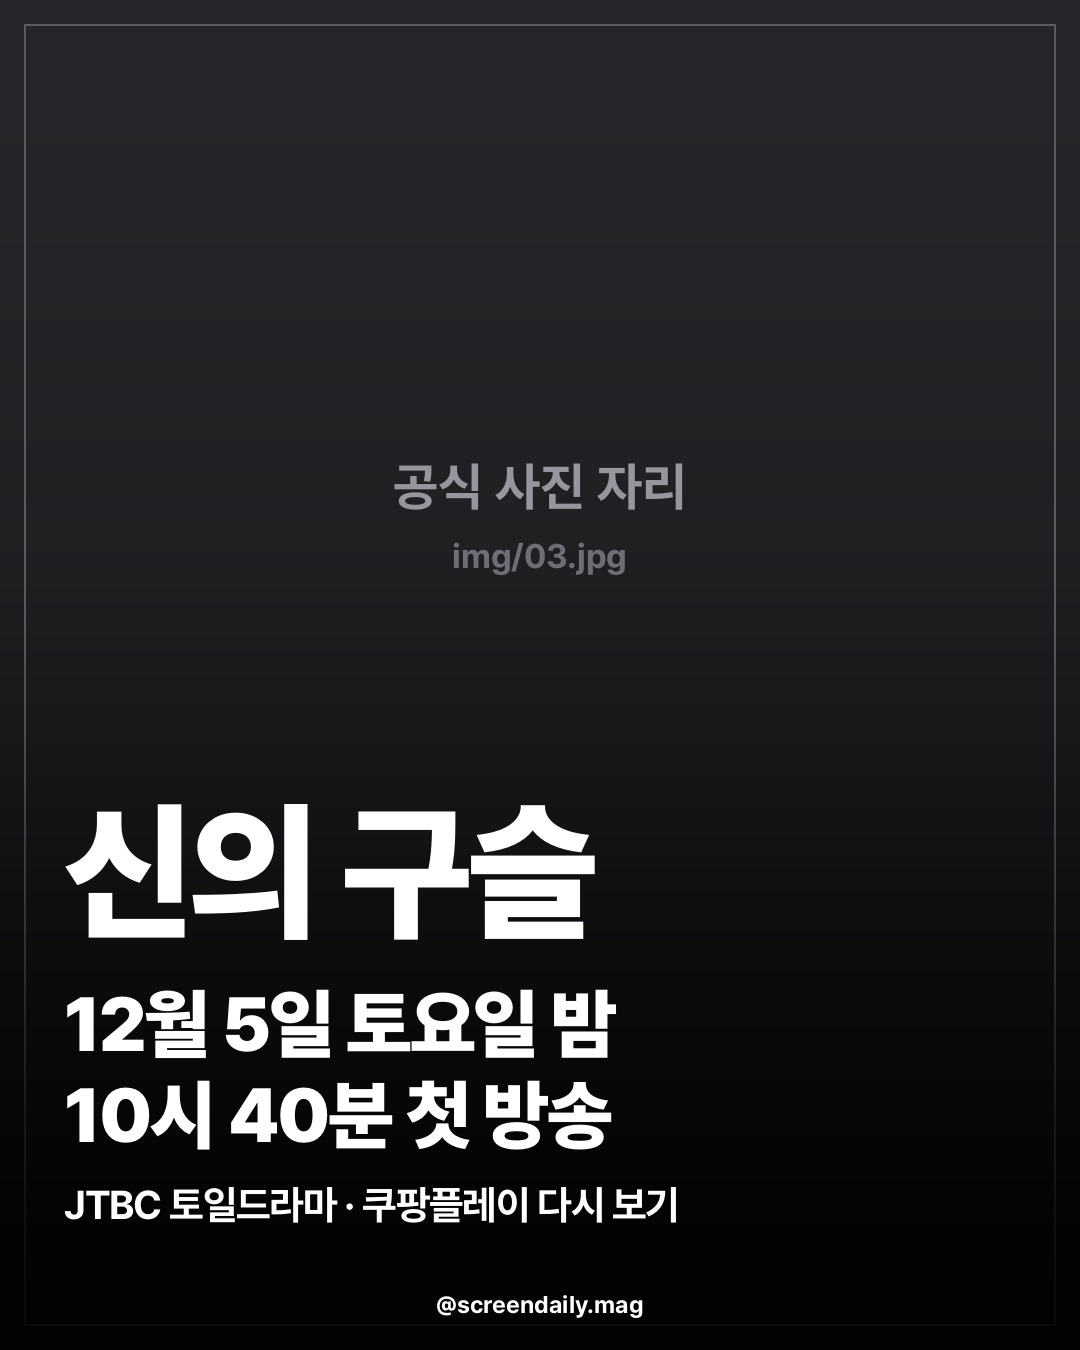
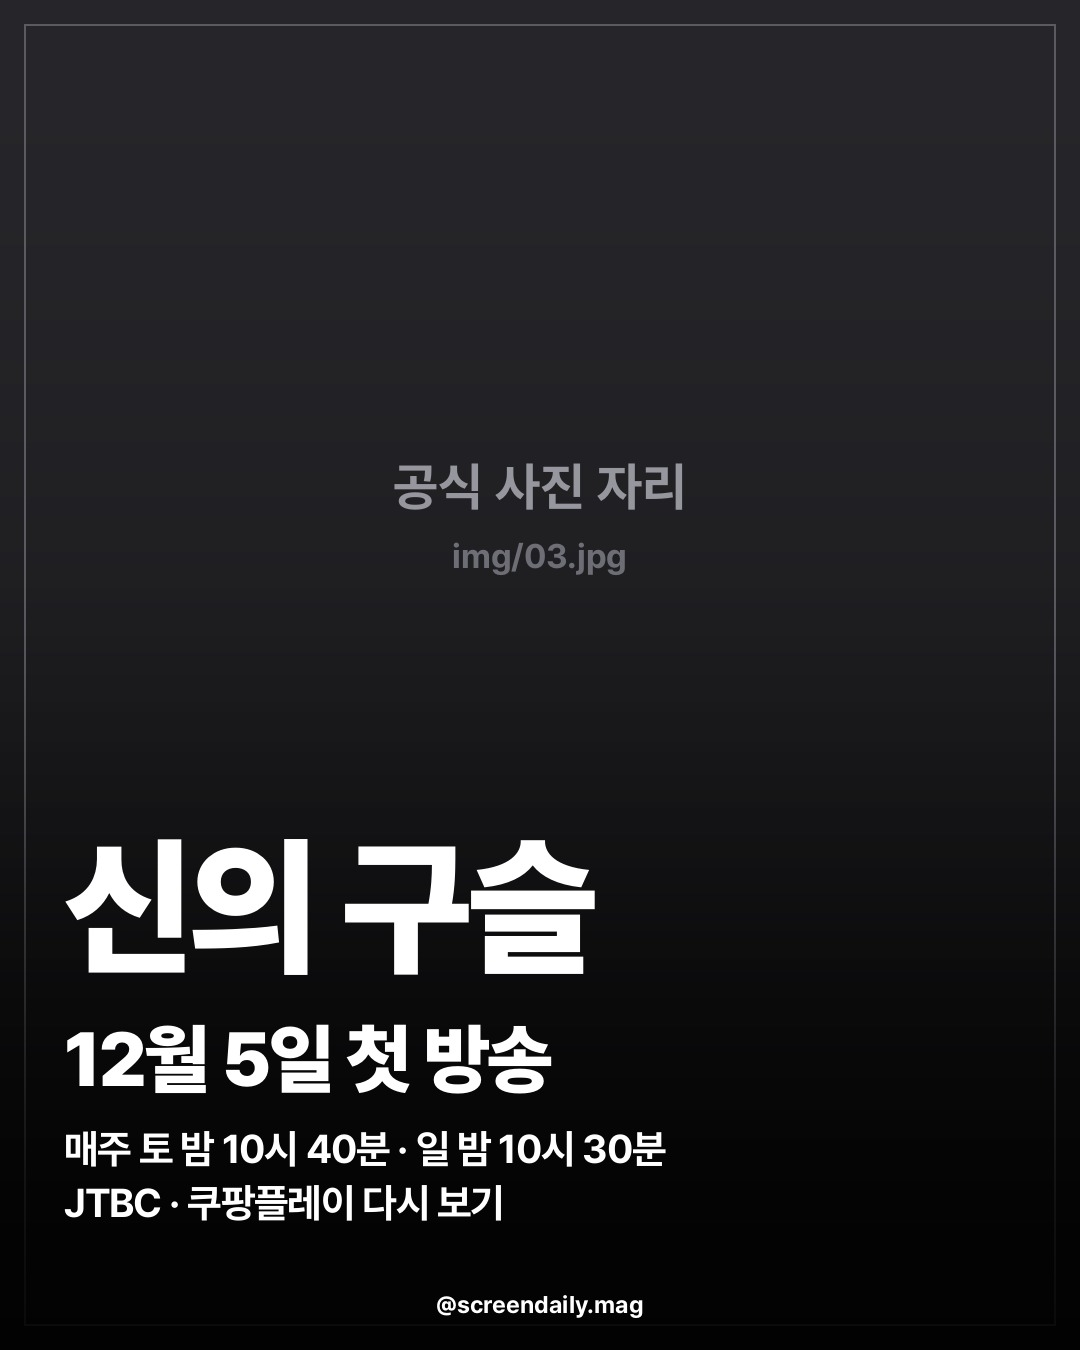
신의 구슬 시안: 매주 토·일 방송 시간 표기, 시네마틱 작은 정보 줄 여러 줄 지원
Claude-Session: https://claude.ai/code/session_013eU9uqy78NUpQEUrp6z5fd

Changed region(s): [[0.0611, 0.5911, 0.6417, 0.9022]]

diff --git a/screendaily/cards.py b/screendaily/cards.py
@@ -1443,8 +1443,9 @@ def render_cinema(post: Post, item: Item, idx: int, total: int, config: dict) ->
     if item.desc:
         dl, df = _cine_fit(item.desc, 76, 48)
         blocks.append((dl, df, WHITE, 1.2, 20 if item.ott else 0))
-    if item.ott:
-        blocks.append(([item.ott], font(PT_BOLD, 40), (255, 255, 255, 210), 1.3, 0))
+    if item.ott:  # 작은 정보 줄 (\n 으로 여러 줄, 예: 방송 시간 / 채널·OTT)
+        ol, of = _cine_fit(item.ott, 40, 30)
+        blocks.append((ol, font(PT_BOLD, of.size), (255, 255, 255, 215), 1.35, 0))
     return _cine_text(canvas, blocks, config)
 
 
